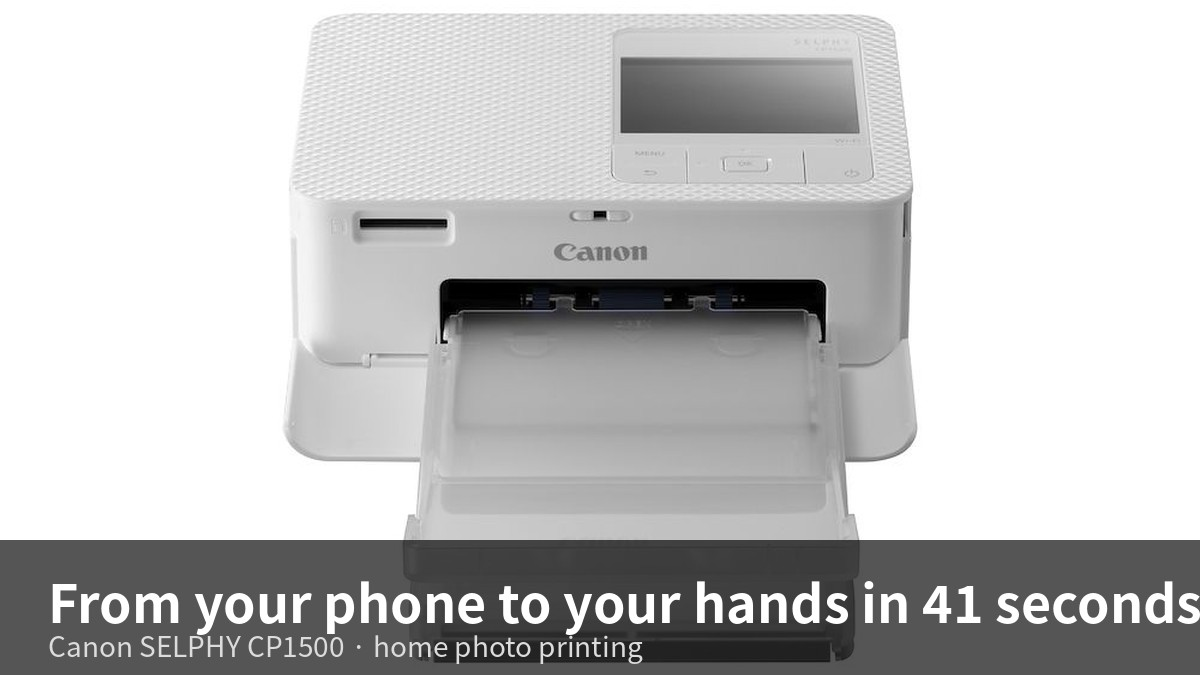
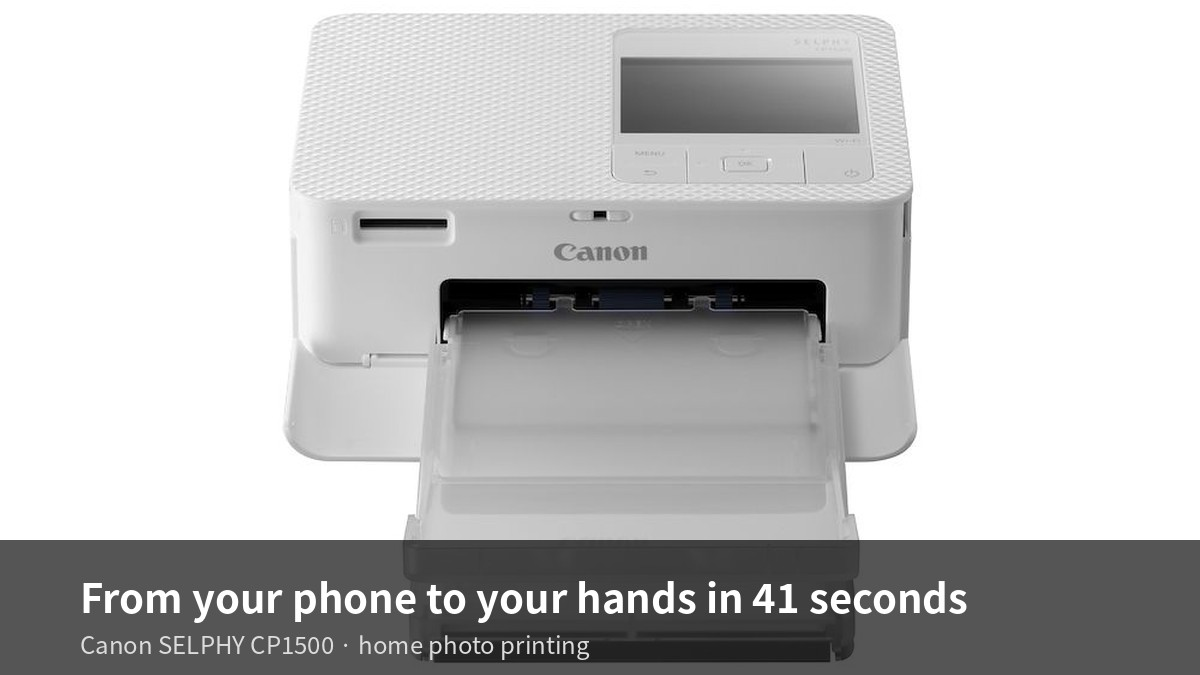
CP1500 2026-11-13-007 rev3 — 원고 완전 재작성 (줄띄우기 정상화: 흐르는 본문 평문 마크다운 단락 통일, 단점 blog 텍스트 블록 분리 폐기), 제휴 표기 최상단 이동, 히어로 재생성(문구 여백 확대), 추천 섹션 naver_link_cards OG 카드로 변경 (한글만), 영문은 이미지 배너 유지

Changed region(s): [[0.0308, 0.84, 1.0, 0.9956]]

diff --git a/posts/muse-01/2026-11-13-007/post.md b/posts/muse-01/2026-11-13-007/post.md
@@ -2,7 +2,7 @@
 post_id: "2026-11-13-007"
 muse_account: "muse-01"
 language: "ko"
-revision: 2
+revision: 3
 status: "ready"
 title: "캐논 셀피 CP1500 후기｜아이 사진, 집에서 바로 뽑는 포토프린터"
 category: "바로 살 수 있는 테크"
@@ -14,6 +14,13 @@ timezone: "Asia/Seoul"
 editing: "format_only"
 cover_image: "images/01-hero.jpg"
 naver_title_style: {font_family: 나눔고딕, font_size: 32, align: center}
+naver_link_cards:
+  - url: https://blog.naver.com/3700708/224475023579
+    occurrence: 2
+  - url: https://blog.naver.com/3700708/224474066475
+    occurrence: 1
+  - url: https://blog.naver.com/3700708/224438205520
+    occurrence: 1
 result:
   url: ""
   completed_at: ""
@@ -24,7 +31,7 @@ result:
 
 ```blog
 type: text
-style: {font_size: 16, line_height: 1.8}
+style: {font_size: 16, line_height: 1.8, align: center}
 runs:
   - text: "이 포스팅은 쿠팡 파트너스 활동의 일환으로, 이에 따른 일정액의 수수료를 제공받습니다."
     style: {bold: true, color: "#007aa6"}
@@ -41,11 +48,12 @@ url: https://link.coupang.com/a/iCG56YVorc
 ```
 
 폰에 사진이 몇 천 장 쌓여 있는데, 정작 손에 쥐어본 사진은 몇 장이나 될까요.
+
 오늘은 캐논 셀피 CP1500을 기준으로, 집에서 사진을 뽑는 게 나한테 맞는 선택인지 판단할 재료만 정리해볼게요.
+
 다만 제가 직접 써본 후기는 아니고, 캐논 공식 자료와 쿠팡 판매 페이지, 실구매자 후기 448개를 모아 정리했어요.
 
-[로지텍 리프트 버티컬 마우스 후기 정리](https://blog.naver.com/3700708/224475023579)를 책상 위에 올려두는 사람이라면, 프린터도 같은 기준으로 고르면 돼요.
-책상 위 물건 하나하나가 결국 하루의 피로도를 정해요.
+[로지텍 리프트 버티컬 마우스 후기 정리](https://blog.naver.com/3700708/224475023579)를 책상 위에 올려두는 사람이라면, 프린터도 같은 기준으로 고르면 돼요. 책상 위 물건 하나하나가 결국 하루의 피로도를 정해요.
 
 ```blog
 type: image
@@ -82,16 +90,19 @@ url: https://link.coupang.com/a/iCG56YVorc
 ```
 
 **아이 사진을 뽑으러 사진관에 갈 일이 없어져요.**
+
 폰에 아이 사진이 수백 장 있는데, 인화하려면 사진관에 가거나 온라인 인화를 주문해야 하잖아요. CP1500은 집에서 바로 뽑아요.
 
 "화질은 기대이상으로 좋습니다. 아이 사진 인화하러 사진관에 갈 일이 없을것 같습니다" (콩콩이짱). 아이가 웃는 사진을 찍은 그날, 냉장고에 붙여둘 수 있어요.
 
 **폰 사진을 그대로, 컴퓨터 없이 뽑아요.**
+
 이 프린터는 폰에서 바로 인화해요. 와이파이나 셀피 앱으로 연결하면, 컴퓨터를 켤 필요가 없어요. SD카드도 본체에 바로 꽂을 수 있어요.
 
 "핸드폰에서 보이는 사진의 화질과 거의 동일하게 나오네요!! 완전 만족만족" (김*지). "조작도 쉽고 메모리 카드를 넣어서 프린터기 자체에서 사진을 선택하고 인화도 가능합니다". 폰에 있는 사진을 뽑는 게, 이렇게까지 쉬울 일인가 싶어요.
 
 **손에 쥐는 사진 한 장이, 선물도 되고 앨범도 돼요.**
+
 화면에만 있던 사진이 손에 쥐어지면 느낌이 달라요. 생일 카드에 한 장, 다이어리에 한 장, 액자에 한 장.
 
 "너무너무너무너무 사진이 잘나옵니다" (이*윤). 장당 304원(RP-108 108매 기준)이라, 한 장 뽑는 부담이 크지 않아요. 오버코팅이 돼서 물·지문에도 강하고, 앨범에 넣어두면 100년 보존된다고 해요.
@@ -108,74 +119,23 @@ align: center
 url: https://link.coupang.com/a/iCG56YVorc
 ```
 
-```blog
-type: text
-style: {font_size: 16, line_height: 1.8}
-runs:
-  - text: "잉크·인화지가 안 들어 있어요. 본품만 옵니다. "
-    style: {bold: true, color: "#C0392B"}
-  - text: "프린터·어댑터·설명서만 들어 있어요. 인화지와 잉크는 따로 사야 해요."
-```
+**잉크·인화지가 안 들어 있어요. 본품만 옵니다.**
 
-```blog
-type: text
-style: {font_size: 16, line_height: 1.8}
-runs:
-  - text: "\"잉크 및 인화지는 포함 되어 있지 않아서 같이 구매하시는 걸 추천 드립니다\""
-```
+프린터·어댑터·설명서만 들어 있어요. 인화지와 잉크는 따로 사야 해요.
 
-```blog
-type: text
-style: {font_size: 16, line_height: 1.8}
-runs:
-  - text: "주문할 때 인화지(RP-108 등)를 같이 담는 게 좋아요. 안 그러면 프린터만 받고 바로 못 써요."
-```
+"잉크 및 인화지는 포함 되어 있지 않아서 같이 구매하시는 걸 추천 드립니다". 주문할 때 인화지(RP-108 등)를 같이 담는 게 좋아요. 안 그러면 프린터만 받고 바로 못 써요.
 
-```blog
-type: text
-style: {font_size: 16, line_height: 1.8}
-runs:
-  - text: "배터리가 별매라, 콘센트에 꽂아야만 써요. "
-    style: {bold: true, color: "#C0392B"}
-  - text: "본체는 작고 가벼워서 들고 다니기 좋아 보이는데, 배터리가 없으면 콘센트 근처에서만 쓸 수 있어요."
-```
+**배터리가 별매라, 콘센트에 꽂아야만 써요.**
 
-```blog
-type: text
-style: {font_size: 16, line_height: 1.8}
-runs:
-  - text: "\"휴대하면서 출력이 불가능합니다\" (이*윤)"
-```
+본체는 작고 가벼워서 들고 다니기 좋아 보이는데, 배터리가 없으면 콘센트 근처에서만 쓸 수 있어요.
 
-```blog
-type: text
-style: {font_size: 16, line_height: 1.8}
-runs:
-  - text: "야외·여행지에서 바로 뽑고 싶다면 배터리까지 따로 사야 해요."
-```
+"휴대하면서 출력이 불가능합니다" (이*윤). 야외·여행지에서 바로 뽑고 싶다면 배터리까지 따로 사야 해요.
 
-```blog
-type: text
-style: {font_size: 16, line_height: 1.8}
-runs:
-  - text: "인화물이 살짝 구부러지거나, 연결이 안 된다는 후기가 있어요. "
-    style: {bold: true, color: "#C0392B"}
-  - text: "1점 후기(박*나, 2026.10.14)는 연결 자체가 안 돼 한 장도 인화하지 못했다고 적었어요."
-```
+**인화물이 살짝 구부러지거나, 연결이 안 된다는 후기가 있어요.**
 
-```blog
-type: text
-style: {font_size: 16, line_height: 1.8}
-runs:
-  - text: "\"완전 평평하게 프린트 되지 않고 약간 구부러져서 프린트가 돼요\" (김*지)"
-```
+1점 후기(박*나, 2026.10.14)는 연결 자체가 안 돼 한 장도 인화하지 못했다고 적었어요.
 
-```blog
-type: text
-style: {font_size: 16, line_height: 1.8}
-runs:
-  - text: "사진관 수준의 선명도를 기대하면 아쉬울 수 있어요."
-```
+"완전 평평하게 프린트 되지 않고 약간 구부러져서 프린트가 돼요" (김*지). 사진관 수준의 선명도를 기대하면 아쉬울 수 있어요.
 
 ## 추천 / 비추천
 
@@ -226,40 +186,18 @@ url: https://link.coupang.com/a/iCG56YVorc
 ```
 
 폰에 쌓인 사진을, 손에 쥐는 한 장으로 바꿔보고 싶다면 이 프린터는 한 번쯤 진지하게 고민해볼 만해요.
+
 다만 배터리까지 사야 하거나, 사진관 수준의 선명도를 원한다면 이 글의 후기만으로는 부족해요. 그럴 땐 다른 프린터도 같이 비교해보는 게 좋아요.
+
 [클로드 코드 인스타 카드뉴스 자동화](https://blog.naver.com/3700708/224474066475)처럼, 책상 위 도구를 하나씩 바꾸는 일이 쌓이면 일하는 방식 자체가 달라져요.
 
 ## 함께 읽으면 좋은 글
 
-```blog
-type: image
-path: images/rec1-hero.jpg
-alt: 로지텍 리프트 버티컬 마우스 후기 정리
-caption: 로지텍 리프트 — 손목이 먼저 알아보는 버티컬 마우스, 책상 위 도구를 바꾸는 일의 연장선
-width: 800
-align: center
-url: https://blog.naver.com/3700708/224475023579
-```
+[로지텍 리프트 — 손목이 먼저 알아보는 버티컬 마우스, 책상 위 도구를 바꾸는 일의 연장선](https://blog.naver.com/3700708/224475023579)
 
-```blog
-type: image
-path: images/rec2-hero.jpg
-alt: 클로드 코드 인스타 카드뉴스 자동화
-caption: 클로드 코드 인스타 카드뉴스 자동화 — 책상 위 도구를 하나씩 바꾸는 자동화
-width: 800
-align: center
-url: https://blog.naver.com/3700708/224474066475
-```
+[클로드 코드 인스타 카드뉴스 자동화 — 책상 위 도구를 하나씩 바꾸는 자동화](https://blog.naver.com/3700708/224474066475)
 
-```blog
-type: image
-path: images/rec3-hero.jpg
-alt: 35초 영상 만들기
-caption: 35초 영상 만들기 — AI 도구로 만드는 짧은 영상
-width: 800
-align: center
-url: https://blog.naver.com/3700708/224438205520
-```
+[35초 영상 만들기 — AI 도구로 만드는 짧은 영상](https://blog.naver.com/3700708/224438205520)
 
 폰에 사진만 쌓여 있다면, 한 장쯤은 손에 쥐어보세요.
 
@@ -267,9 +205,10 @@ url: https://blog.naver.com/3700708/224438205520
 
 ## 작업용 출처·이미지 정보 (업로드 제외)
 
+- rev3 완전 재작성 (2026-11-13 18:00, 우영 지시 "원고를 완전 다시 작성해서 재업로드"): rev2의 blog 텍스트 블록 분리(단점 1개당 3블록)가 과도한 줄 간격을 만들어 읽기 어렵다는 지적. 재작성 원칙 — 흐르는 본문은 전부 평문 마크다운 단락으로 통일 (blog 텍스트 블록은 이미지·표·리스트·제휴 표기 1블록에만 사용). 단락은 2~3문장마다 끊고, 인용은 단락 안에 자연스럽게 녹인다. 단점 굵은 리드(#C0392B 빨강)는 평문 마크다운이라 색상을 못 넣어 굵게만 유지 (가독성 우선, 색상 포기). 제휴 표기는 글 최상단(히어로 앞)으로 이동 (워드프레스 확인에서 히어로 아래에 있던 문제 수정). 히어로 이미지 재생성 (문구 왼쪽 여백 48→80, 폰트 52→48, "폰 속" 잘림 수정).
+- 추천 섹션 OG 카드로 변경 (rev3, 우영 직접 지시 seq1557): image 배너 3개(rec1-3-hero.jpg) 제거 → YAML naver_link_cards + 본문 독립 링크 3줄. 리프트 URL은 본문에 2번 등장(도입부 내부 링크가 1번째, 추천 섹션이 2번째)이라 occurrence 2, 나머지 2개는 occurrence 1. 카드 제목·요약·이미지는 네이버가 목적지 URL에서 추출. 생성 실패 시 원래 링크 보존, 게시 기록 result=native만 실제 카드 생성. 네이버 전용. rec1-3-hero.jpg 파일은 images/ 폴더에 남겨둠 (폴백용).
 - 자료 출처: 캐논 셀피 CP1500 공식 스펙(염료승화 인화, 300×300dpi, 엽서 4×6인치/지갑/스티커, 인화 41초/매, 3.5인치 컬러 LCD, Wi-Fi·USB·SD·AirPrint·SELPHY 앱, 오버코팅·100년 보존, 182.2×133.0×57.6mm·약 850g) + 쿠팡 판매 페이지 vp/6882547049 (2026-11-13 크롬 직접 확인: 확인 가격 200,000원·와우 쿠폰 181,000원, 리뷰 448개·5점 89%·4점 6%·3점 2%·2점 1%·1점 2%, 로켓배송·무료배송·11/14 도착 보장, 판매자 쿠팡(주)·제조·수입 캐논코리아·A/S 1533-3355, 색상 블랙·핑크·화이트, 구성품 본품+어댑터 CA-CP300B+용지카세트 PCP-CP400, 잉크·인화지 미포함, 배터리 별매) + 실구매자 후기 인용(장점 3·단점 3, 1점 11개 포함) + 제휴 시리즈 새 포맷 "구매 판단 재료" (2026-11-13 15:41 우영 채택) + 디자인·하이라이트 연구 (2026-11-13)
-- 이미지: 01-hero.jpg(실제 제품 사진 cp1500_front + 한글 배너 오버레이), 02-img1.jpg(실제 제품 사진 cp1500_lifestyle, 집에서 인화하는 라이프스타일 실사), 03-img2.jpg(실제 제품 사진 cp1500_angle), 04-img3.jpg(실제 제품 사진 cp1500_3q), 05-banner-cta.jpg(구매 CTA 배너 — 실제 제품 사진 + "쿠팡에서 확인하기" + 기능 라인, 가격 없음, 클릭 시 제휴 링크), 06-infographic.jpg(한 장 요약 인포그래픽 1200×1500, 기능·리뷰·장단점·이런 사람에게, 가격 없음, 클릭 시 제휴 링크). 이미지 모두 클릭 시 제휴 링크로 연결 (image 블록 url). AI 일러스트 없음 — 전부 실제 제품 사진.
-- 추천 섹션 이미지 배너 (2026-11-13 신규, CP1500 첫 적용): 텍스트 링크 대신 추천 글의 히어로 이미지(1200×675)를 image 블록으로 넣고 url에 해당 글 네이버 URL 지정, 너비 800, 캡션에는 한 줄 소개만. rec1-hero.jpg(로지텍 리프트, 224475023579), rec2-hero.jpg(클로드 코드 인스타 카드뉴스, 224474066475), rec3-hero.jpg(35초 영상 만들기, 224438205520). 네이버 클릭 동작은 이 글로 직접 확인한다.
-- 새 기능 적용 (blog-components-v1): runs 서식(제휴 표기 굵게+색상 #007aa6, 단점 굵게+빨강 #C0392B), table 블록(한눈에 보기 표·추천/비추천 표, 머리행 #123456/흰 글씨, 셀 width 명시 — 한눈에 보기 18/82, 추천/비추천 12/40/48), list 블록(체크리스트 ✅/⚠), image 블록(클릭 링크·캡션), naver_title_style(나눔고딕 32·가운데). naver_link_cards 미사용. 문장 중간 링크는 Markdown 링크 유지 (카드로 바꾸지 않음).
+- 이미지: 01-hero.jpg(재생성, 문구 여백 확대), 02-img1.jpg, 03-img2.jpg, 04-img3.jpg, 05-banner-cta.jpg, 06-infographic.jpg. 이미지 모두 클릭 시 제휴 링크로 연결 (image 블록 url). AI 일러스트 없음 — 전부 실제 제품 사진.
+- 새 기능 적용 (blog-components-v1): runs 서식(제휴 표기 굵게+색상 #007aa6), table 블록(한눈에 보기 표·추천/비추천 표, 머리행 #123456/흰 글씨, 셀 width 명시 — 한눈에 보기 18/82, 추천/비추천 12/40/48), list 블록(체크리스트 ✅/⚠), image 블록(클릭 링크·캡션), naver_title_style(나눔고딕 32·가운데), naver_link_cards(추천 섹션 OG 카드 3개). 문장 중간 링크는 Markdown 링크 유지 (카드로 바꾸지 않음).
 - 가격 방침 (2026-11-13 16:40): 가격은 한눈에 보기 표에 1회만 평문으로 (굵게·색상·큰 글씨 금지). 인포그래픽·배너에는 가격 없음. 확인 가격 200,000원 (2026-11-13 확인, 일반판매가). 와우 쿠폰 181,000원은 조건부 가격이라 같은 행에 병기.
 - 정정 (스냅샷 대비): 확인 가격 207,000원(2026-10-22 크롤) → 200,000원(2026-11-13 확인)으로 변경. 리뷰 453개 → 448개. 평점 4.8점은 페이지 숫자 표기가 없어 별점 분포 계산값(~4.76)이라 "4점 이상 95%"로 표기. 판매자는 "캐논코리아 정품 공식 판매점" 문구가 이 페이지에 없어 쿠팡(주)로만 표기, 제조·수입은 캐논코리아로 명시.

diff --git a/posts/muse-01/2026-11-13-007/post.en.md b/posts/muse-01/2026-11-13-007/post.en.md
@@ -2,7 +2,7 @@
 post_id: "2026-11-13-007"
 muse_account: "muse-01"
 language: "en"
-revision: 2
+revision: 3
 status: "ready"
 title: "Canon SELPHY CP1500 Review | Print Your Kids' Photos at Home"
 category: "바로 살 수 있는 테크"
@@ -23,7 +23,7 @@ result:
 
 ```blog
 type: text
-style: {font_size: 16, line_height: 1.8}
+style: {font_size: 16, line_height: 1.8, align: center}
 runs:
   - text: "This post contains affiliate links. As a Coupang Partner, I may earn a commission from qualifying purchases."
     style: {bold: true, color: "#007aa6"}
@@ -40,11 +40,12 @@ url: https://link.coupang.com/a/iCG56YVorc
 ```
 
 Your phone holds thousands of photos. How many have you actually held in your hands?
+
 Today I'm gathering just the material to judge whether printing photos at home with the Canon SELPHY CP1500 is the right choice for you.
+
 I haven't used it myself — this is a roundup of Canon's official specs, the Coupang product page, and 448 real buyer reviews.
 
-If you set up the [Logitech Lift vertical mouse](https://blog.naver.com/3700708/224475023579) on your desk, choose your printer by the same standard.
-Every object on a desk ends up setting how tired you feel at the end of the day.
+If you set up the [Logitech Lift vertical mouse](https://blog.naver.com/3700708/224475023579) on your desk, choose your printer by the same standard. Every object on a desk ends up setting how tired you feel at the end of the day.
 
 ```blog
 type: image
@@ -81,16 +82,19 @@ url: https://link.coupang.com/a/iCG56YVorc
 ```
 
 **No more trips to the photo shop for your kid's pictures.**
+
 Your phone holds hundreds of photos of your kids, but printing them means going to a shop or ordering online. The CP1500 prints at home.
 
 "The picture quality exceeded my expectations. I won't need to go to a photo shop to print my kid's photos anymore" (Kongkongijjang). A photo taken today can be on the fridge tonight.
 
 **Print straight from your phone, no computer needed.**
+
 This printer prints directly from your phone. Connect over Wi-Fi or the SELPHY app and there's no need to turn on a computer. An SD card slots straight into the body, too.
 
 "The quality is almost identical to what I see on my phone!! Completely satisfied" (Kim). "It's easy to operate — insert a memory card and select photos on the printer itself to print." Printing from your phone turns out to be this easy.
 
 **A photo you can hold becomes a gift, an album, a diary.**
+
 A photo that only lived on a screen feels different once you can hold it. One for a birthday card, one for a diary, one for a frame.
 
 "The photos come out so, so, so, so well" (Lee). At about ₩304 per print (RP-108, 108 sheets), one print doesn't cost much. An overcoat protects against water and fingerprints, and Canon says album-stored prints last 100 years.
@@ -107,74 +111,23 @@ align: center
 url: https://link.coupang.com/a/iCG56YVorc
 ```
 
-```blog
-type: text
-style: {font_size: 16, line_height: 1.8}
-runs:
-  - text: "Ink and paper aren't included. The box holds the printer only. "
-    style: {bold: true, color: "#C0392B"}
-  - text: "You get the printer, adapter, and manual. Ink and paper are separate purchases."
-```
+**Ink and paper aren't included. The box holds the printer only.**
 
-```blog
-type: text
-style: {font_size: 16, line_height: 1.8}
-runs:
-  - text: "\"Ink and paper are not included, so I recommend buying them together.\""
-```
+You get the printer, adapter, and manual. Ink and paper are separate purchases.
 
-```blog
-type: text
-style: {font_size: 16, line_height: 1.8}
-runs:
-  - text: "Order paper (RP-108 and similar) together. Otherwise the printer arrives and you can't use it right away."
-```
+"Ink and paper are not included, so I recommend buying them together." Order paper (RP-108 and similar) together. Otherwise the printer arrives and you can't use it right away.
 
-```blog
-type: text
-style: {font_size: 16, line_height: 1.8}
-runs:
-  - text: "The battery is sold separately, so it only works plugged in. "
-    style: {bold: true, color: "#C0392B"}
-  - text: "The body looks small and light enough to carry, but without the optional battery it only works near an outlet."
-```
+**The battery is sold separately, so it only works plugged in.**
 
-```blog
-type: text
-style: {font_size: 16, line_height: 1.8}
-runs:
-  - text: "\"You can't print while carrying it around\" (Lee)."
-```
+The body looks small and light enough to carry, but without the optional battery it only works near an outlet.
 
-```blog
-type: text
-style: {font_size: 16, line_height: 1.8}
-runs:
-  - text: "To print outdoors or on a trip, you need the battery too."
-```
+"You can't print while carrying it around" (Lee). To print outdoors or on a trip, you need the battery too.
 
-```blog
-type: text
-style: {font_size: 16, line_height: 1.8}
-runs:
-  - text: "Prints come out slightly curled, and some report connection failures. "
-    style: {bold: true, color: "#C0392B"}
-  - text: "A 1-star review (Park, 2026.10.14) says the unit wouldn't connect at all, and not a single photo was printed."
-```
+**Prints come out slightly curled, and some report connection failures.**
 
-```blog
-type: text
-style: {font_size: 16, line_height: 1.8}
-runs:
-  - text: "\"It doesn't print completely flat — it comes out slightly curled\" (Kim)."
-```
+A 1-star review (Park, 2026.10.14) says the unit wouldn't connect at all, and not a single photo was printed.
 
-```blog
-type: text
-style: {font_size: 16, line_height: 1.8}
-runs:
-  - text: "If you expect photo-shop sharpness, you may be disappointed."
-```
+"It doesn't print completely flat — it comes out slightly curled" (Kim). If you expect photo-shop sharpness, you may be disappointed.
 
 ## Who it's for / who should skip it
 
@@ -225,7 +178,9 @@ url: https://link.coupang.com/a/iCG56YVorc
 ```
 
 If you want to turn the photos piling up on your phone into one you can hold, this printer is worth a serious look.
+
 But if you need the battery too, or expect photo-shop sharpness, these reviews alone aren't enough. Compare a few printers first.
+
 Like [automating Instagram card news with Claude Code](https://blog.naver.com/3700708/224474066475), changing one desk tool at a time eventually changes how you work.
 
 ## Good reads
@@ -266,8 +221,9 @@ If your phone holds nothing but photos, hold at least one of them in your hands.
 
 ## 작업용 출처·이미지 정보 (업로드 제외)
 
+- rev3 complete rewrite (2026-11-13 18:00, user instruction "원고를 완전 다시 작성해서 재업로드"): rev2's split blog text blocks (3 blocks per downside) created excessive line spacing. Rewrite rule — all flowing text as plain markdown paragraphs (blog text blocks only for images·tables·lists·the single affiliate disclosure block). Paragraphs break every 2-3 sentences, quotes woven naturally into the paragraph. Downside bold lead loses the red color (#C0392B) because plain markdown can't carry color (readability first, color dropped). Affiliate disclosure moved to the very top (before the hero) to fix the "not at the very top" issue found in the WordPress check. Hero image regenerated (headline left margin 48→80, font 52→48, fixing the clipped "폰 속").
+- Recommended section (English): image banners kept (rec1-3-hero-en.jpg) — naver_link_cards is Naver-only and the English edition targets wordpress-en and blogger-en only.
 - Sources: Canon SELPHY CP1500 official specs (dye-sublimation, 300×300 dpi, postcard 4×6 in / wallet / sticker, 41 sec per print, 3.5 in color LCD, Wi-Fi·USB·SD·AirPrint·SELPHY app, overcoat·100-year preservation, 182.2×133.0×57.6 mm·about 850 g) + Coupang product page vp/6882547049 (2026-11-13 Chrome direct check: confirmed price ₩200,000·Wow coupon ₩181,000, 448 reviews·89% 5 stars·6% 4 stars·2% 3 stars·1% 2 stars·2% 1 star, Rocket delivery·free shipping·arrives 11/14, seller Coupang Inc.·manufacturer/importer Canon Korea·A/S 1533-3355, colors black/pink/white, contents printer + adapter CA-CP300B + paper cassette PCP-CP400, ink and paper not included, battery sold separately) + real buyer review quotes (3 pros · 3 cons, incl. 11 one-star reviews) + affiliate series format "구매 판단 재료" (2026-11-13) + design/highlight research (2026-11-13).
-- Images: 01-hero-en.jpg (real product photo cp1500_front + English banner overlay), 02-img1-en.jpg (real product photo cp1500_lifestyle), 03-img2-en.jpg (real product photo cp1500_angle), 04-img3-en.jpg (real product photo cp1500_3q), 05-banner-cta-en.jpg (CTA banner — real product photo + "Check it on Coupang" + feature line, no price, links to affiliate URL), 06-infographic-en.jpg (one-sheet infographic 1200×1500, features·reviews·pros·cons·who it's for, no price, links to affiliate URL). All images link to the affiliate URL (image block url). No AI illustrations — all real product photos.
-- Recommended section image banners (new 2026-11-13, first applied in CP1500): image banners instead of text links — recommended posts' hero images (1200×675) as image blocks with the post's Naver URL in `url`, width 800, caption is the one-line intro only. rec1-hero-en.jpg (Logitech Lift, 224475023579), rec2-hero-en.jpg (Claude Code card news, 224474066475), rec3-hero-en.jpg (35-second video, 224438205520). Naver click behavior to be verified directly with this post.
+- Images: 01-hero-en.jpg (regenerated, wider headline margin), 02-img1-en.jpg, 03-img2-en.jpg, 04-img3-en.jpg, 05-banner-cta-en.jpg, 06-infographic-en.jpg. All images link to the affiliate URL (image block url). No AI illustrations — all real product photos.
 - Price policy (2026-11-13 16:40): price appears once, in the overview table, as plain text (no bold·color·large). No price in the infographic or banner. Confirmed price ₩200,000 (confirmed 2026-11-13, general sale price). Wow coupon ₩181,000 is a conditional price, noted in the same row.
 - Corrections vs snapshot: confirmed price ₩207,000 (2026-10-22 crawl) → ₩200,000 (2026-11-13 confirmed). Reviews 453 → 448. The 4.8 rating has no numeric display on the page, so it is shown as "95% 4 stars or higher" from the star distribution (~4.76 calculated). Seller is Coupang Inc. only — the page has no "Canon Korea official seller" wording, so no official-seller claim; manufacturer/importer is Canon Korea.
